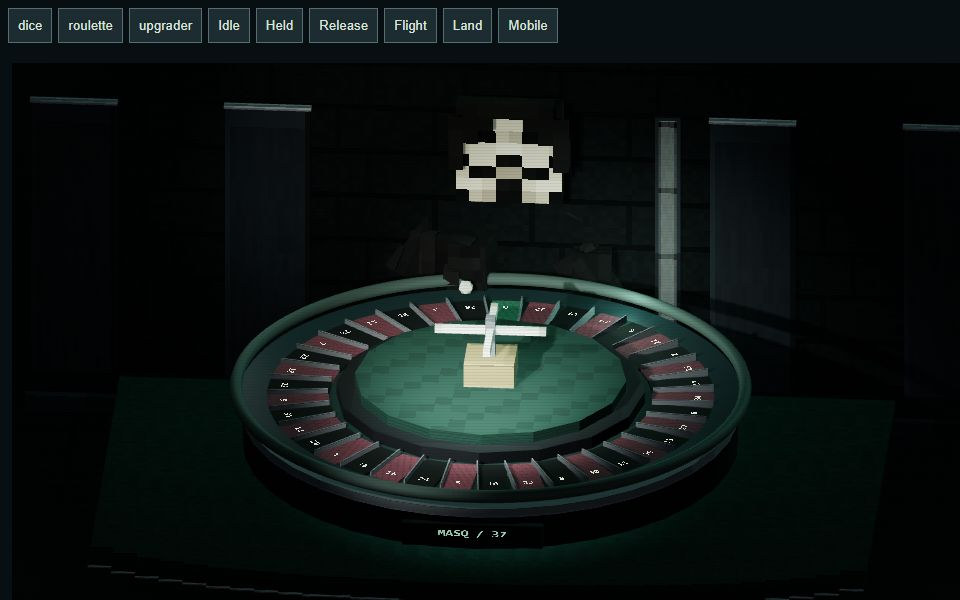
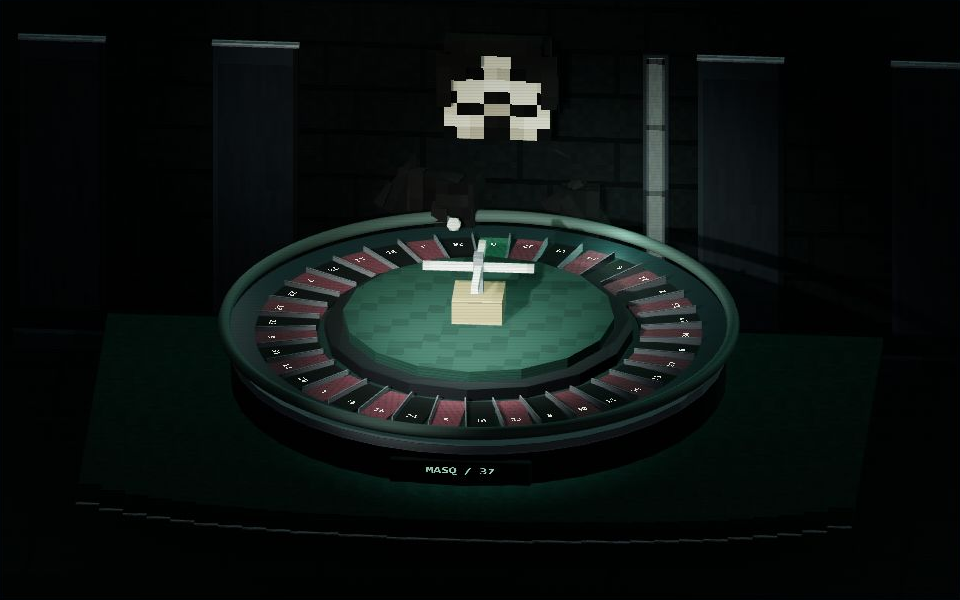
Use clean classic scene covers and refresh cached lobby images
Crop all four game covers from full native captures using the measured canvas bounds, preserving the whole scene and excluding authoring controls. Version the lobby image URLs so existing browser tabs receive the refreshed Anonymous scenes.

Validation: inspected all four final PNGs; verified the four new images loaded in the live catalog; production build.

diff --git a/src/LobbyV15.jsx b/src/LobbyV15.jsx
@@ -4,9 +4,9 @@ import { MasqIcon } from './MasqIdentity.jsx';
 
 const SLOT_IDS = Object.freeze(['slots', 'maskhouse', 'lecipher']);
 const CLASSIC_COVERS = Object.freeze({
-  coinflip: '/masq-v36-coinflip.png', dice: '/masq-v36-dice.png',
-  plinko: '/masq-v36-plinko.png', roulette: '/masq-v36-roulette.png',
-  upgrader: '/masq-v36-upgrader.png', blackjack: '/blackjack-dealer-poster-v34.webp',
+  coinflip: '/masq-v36-coinflip.png', dice: '/masq-v36-dice.png?v=45a',
+  plinko: '/masq-v36-plinko.png?v=45a', roulette: '/masq-v36-roulette.png?v=45a',
+  upgrader: '/masq-v36-upgrader.png?v=45a', blackjack: '/blackjack-dealer-poster-v34.webp',
 });
 const SEARCH_NAMES = Object.freeze({
   slots: 'бонанза bonanza каскады',
